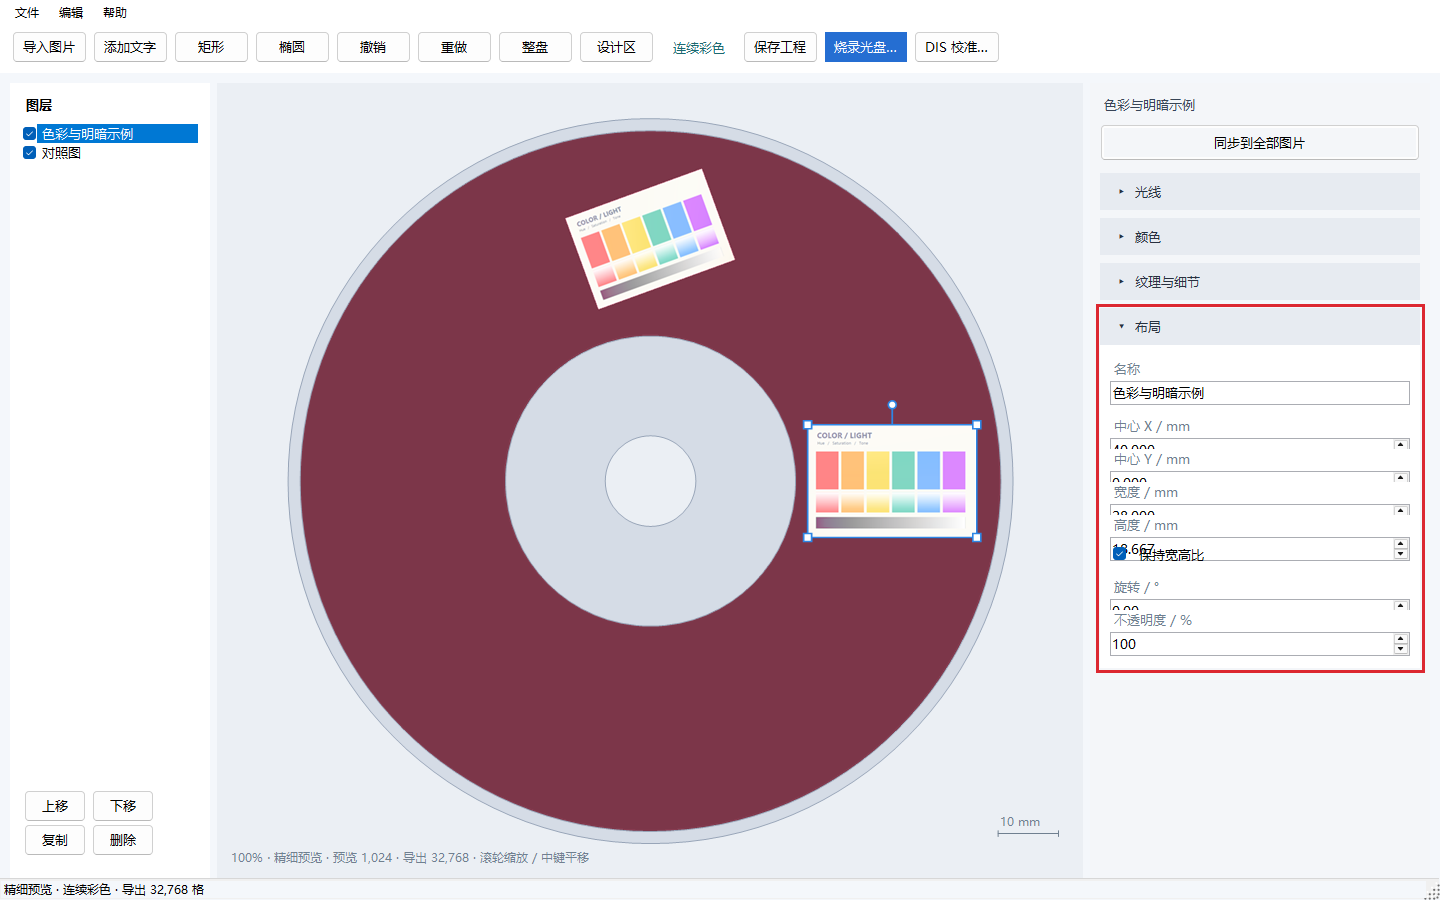
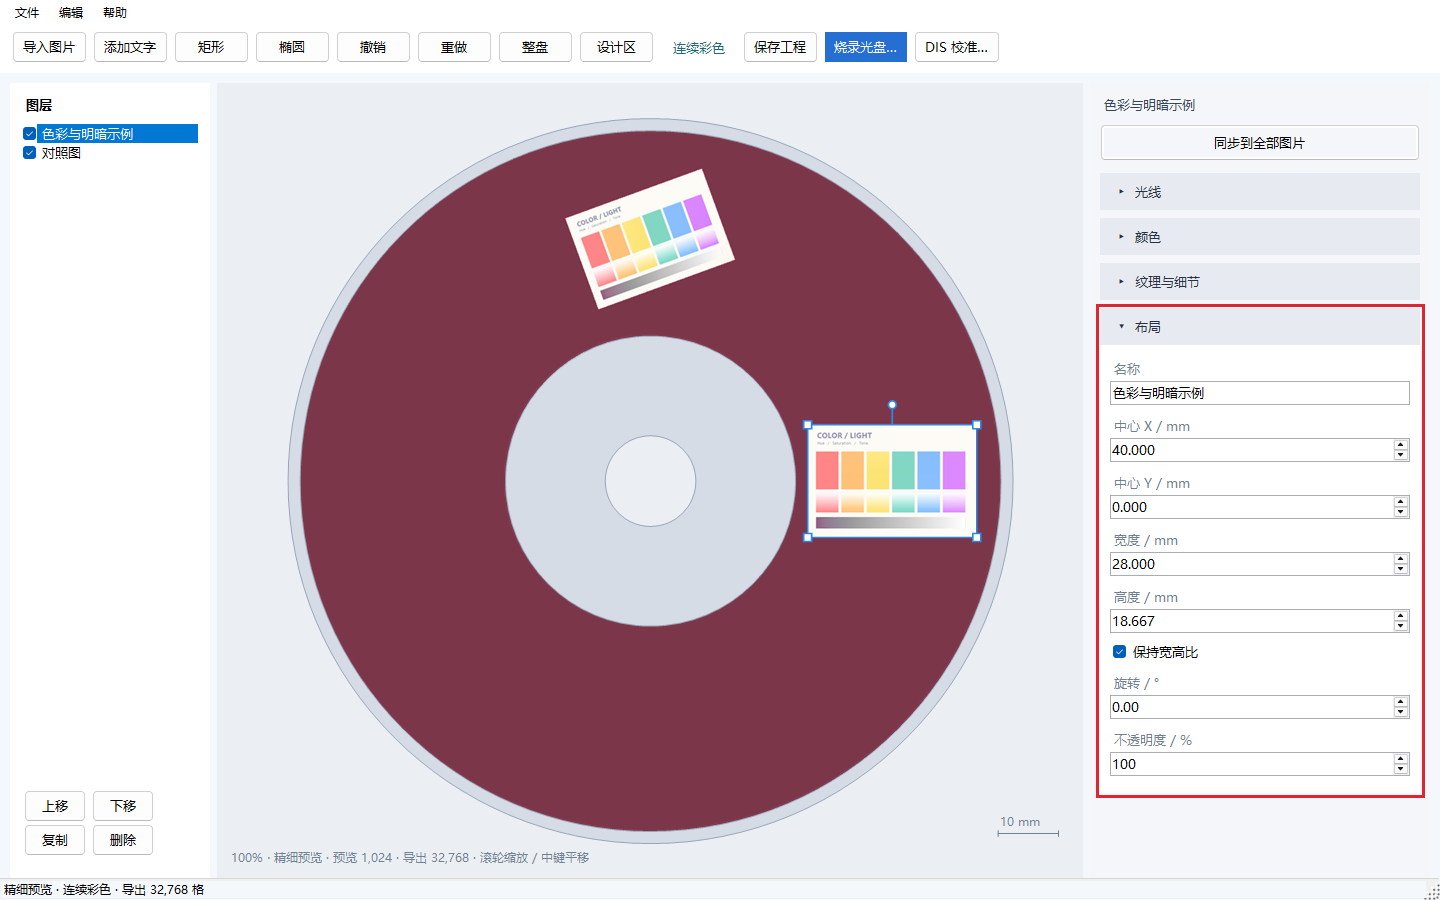
Fix checkbox repaint artifacts and overlapping inspector rows

Changed region(s): [[0.75, 0.4978, 1.0, 0.9022], [0.9688, 0.84, 1.0, 0.8711], [0.9688, 0.5911, 1.0, 0.6222]]

diff --git a/src/DiscColorStudio/ResponsiveLayout.cs b/src/DiscColorStudio/ResponsiveLayout.cs
@@ -30,17 +30,29 @@ public class ResponsiveForm : Form
     }
 }
 
-internal class VerticalStack : TableLayoutPanel
+internal class VerticalStack : FlowLayoutPanel
 {
+    private bool fitting;
     internal VerticalStack()
     {
-        ColumnCount = 1; RowCount = 0; GrowStyle = TableLayoutPanelGrowStyle.AddRows;
-        ColumnStyles.Add(new ColumnStyle(SizeType.Percent, 100));
+        FlowDirection = FlowDirection.TopDown; WrapContents = false;
         AutoSize = true; AutoSizeMode = AutoSizeMode.GrowAndShrink; Dock = DockStyle.Top;
         Margin = Padding.Empty;
     }
-    private bool fitting;
-    protected override void OnLayout(LayoutEventArgs e)
+    protected override void OnSizeChanged(EventArgs e) { base.OnSizeChanged(e); FitChildren(); }
+    protected override void OnPaddingChanged(EventArgs e) { base.OnPaddingChanged(e); FitChildren(); }
+    protected override void OnFontChanged(EventArgs e) { base.OnFontChanged(e); FitChildren(); }
+    protected override void OnDpiChangedAfterParent(EventArgs e) { base.OnDpiChangedAfterParent(e); FitChildren(); }
+    protected override void OnControlAdded(ControlEventArgs e)
+    {
+        if (e.Control is { } child)
+        {
+            child.Dock = DockStyle.None; child.Anchor = AnchorStyles.Top | AnchorStyles.Left;
+            if (child is UpDownBase or ComboBox || child is TextBox { Multiline: false }) child.AutoSize = true;
+        }
+        base.OnControlAdded(e); FitChildren();
+    }
+    private void FitChildren()
     {
         if (fitting) return;
         fitting = true;
@@ -48,15 +60,28 @@ internal class VerticalStack : TableLayoutPanel
         {
             int available = Math.Max(1, ClientSize.Width - Padding.Horizontal);
             foreach (Control child in Controls)
-                child.MaximumSize = new Size(Math.Max(1, available - child.Margin.Horizontal), 0);
-            base.OnLayout(e);
+            {
+                int width = Math.Max(1, available - child.Margin.Horizontal);
+                int height = child switch
+                {
+                    UpDownBase input => input.PreferredHeight,
+                    ComboBox input => input.PreferredHeight,
+                    TextBox input when !input.Multiline => input.PreferredHeight,
+                    _ => child.MinimumSize.Height
+                };
+                // Fixed-height native inputs must retain their specified height in the flow layout.
+                var minimum = new Size(width, height);
+                if (child.MinimumSize != minimum || child.MaximumSize.Width != width)
+                {
+                    child.MinimumSize = Size.Empty;
+                    child.MaximumSize = new Size(width, 0);
+                    child.MinimumSize = minimum;
+                }
+                if (child.Width != width) child.Width = width;
+                if (child is UpDownBase or ComboBox || child is TextBox { Multiline: false }) child.Height = height;
+            }
         }
         finally { fitting = false; }
-    }
-    protected override void OnControlAdded(ControlEventArgs e)
-    {
-        if (e.Control is { } child) child.Dock = DockStyle.Top;
-        base.OnControlAdded(e);
     }
 }
 
@@ -80,26 +105,14 @@ internal sealed class WrappingFlowPanel : FlowLayoutPanel
 
 internal sealed class WrappingCheckBox : CheckBox
 {
-    private bool hot;
     public override Size GetPreferredSize(Size proposedSize)
     {
-        int glyph = LayoutUi.Px(this, 22), width = Math.Max(glyph + 1, proposedSize.Width > 0 ? proposedSize.Width : Width);
-        var text = TextRenderer.MeasureText(Text, Font, new Size(Math.Max(1, width - glyph - Padding.Horizontal), int.MaxValue), TextFormatFlags.WordBreak);
-        return new Size(Math.Min(width, text.Width + glyph + Padding.Horizontal), Math.Max(LayoutUi.Px(this, 20), text.Height + LayoutUi.Px(this, 4)) + Padding.Vertical);
+        int glyph = LayoutUi.Px(this, 22);
+        int width = Math.Max(glyph + 1, Math.Min(proposedSize.Width > 0 ? proposedSize.Width : Width, MaximumSize.Width > 0 ? MaximumSize.Width : Width));
+        var text = TextRenderer.MeasureText(Text, Font, new Size(Math.Max(1, width - glyph - Padding.Horizontal), int.MaxValue), TextFormatFlags.WordBreak | TextFormatFlags.TextBoxControl);
+        return new Size(width, Math.Max(LayoutUi.Px(this, 20), text.Height + LayoutUi.Px(this, 4)) + Padding.Vertical);
     }
-    protected override void OnMouseEnter(EventArgs e) { hot = true; base.OnMouseEnter(e); Invalidate(); }
-    protected override void OnMouseLeave(EventArgs e) { hot = false; base.OnMouseLeave(e); Invalidate(); }
-    protected override void OnPaint(PaintEventArgs e)
-    {
-        var state = Checked
-            ? (!Enabled ? System.Windows.Forms.VisualStyles.CheckBoxState.CheckedDisabled : hot ? System.Windows.Forms.VisualStyles.CheckBoxState.CheckedHot : System.Windows.Forms.VisualStyles.CheckBoxState.CheckedNormal)
-            : (!Enabled ? System.Windows.Forms.VisualStyles.CheckBoxState.UncheckedDisabled : hot ? System.Windows.Forms.VisualStyles.CheckBoxState.UncheckedHot : System.Windows.Forms.VisualStyles.CheckBoxState.UncheckedNormal);
-        var glyph = CheckBoxRenderer.GetGlyphSize(e.Graphics, state);
-        CheckBoxRenderer.DrawCheckBox(e.Graphics, new Point(Padding.Left, Padding.Top + Math.Max(0, (Font.Height - glyph.Height) / 2)), state);
-        var text = new Rectangle(Padding.Left + LayoutUi.Px(this, 22), Padding.Top, Math.Max(1, ClientSize.Width - Padding.Horizontal - LayoutUi.Px(this, 22)), Math.Max(1, ClientSize.Height - Padding.Vertical));
-        TextRenderer.DrawText(e.Graphics, Text, Font, text, Enabled ? ForeColor : SystemColors.GrayText, TextFormatFlags.WordBreak | TextFormatFlags.PreserveGraphicsClipping);
-        if (Focused && ShowFocusCues) ControlPaint.DrawFocusRectangle(e.Graphics, text);
-    }
+
 }
 
 internal static class LayoutUi

diff --git a/src/DiscColorStudio/InspectorControls.cs b/src/DiscColorStudio/InspectorControls.cs
@@ -57,7 +57,7 @@ internal sealed class AdjustmentSlider : UserControl, ILocalizedControl
     public override Size GetPreferredSize(Size proposedSize)
     {
         if (caption is null) return base.GetPreferredSize(proposedSize);
-        int width = proposedSize.Width > 0 ? proposedSize.Width : Width;
+        int width = Math.Min(proposedSize.Width > 0 ? proposedSize.Width : Width, MaximumSize.Width > 0 ? MaximumSize.Width : Width);
         var m = Metrics(width); return new Size(width, m.rowHeight + m.trackHeight + LayoutUi.Px(this, 5));
     }
     protected override void OnLayout(LayoutEventArgs e)
